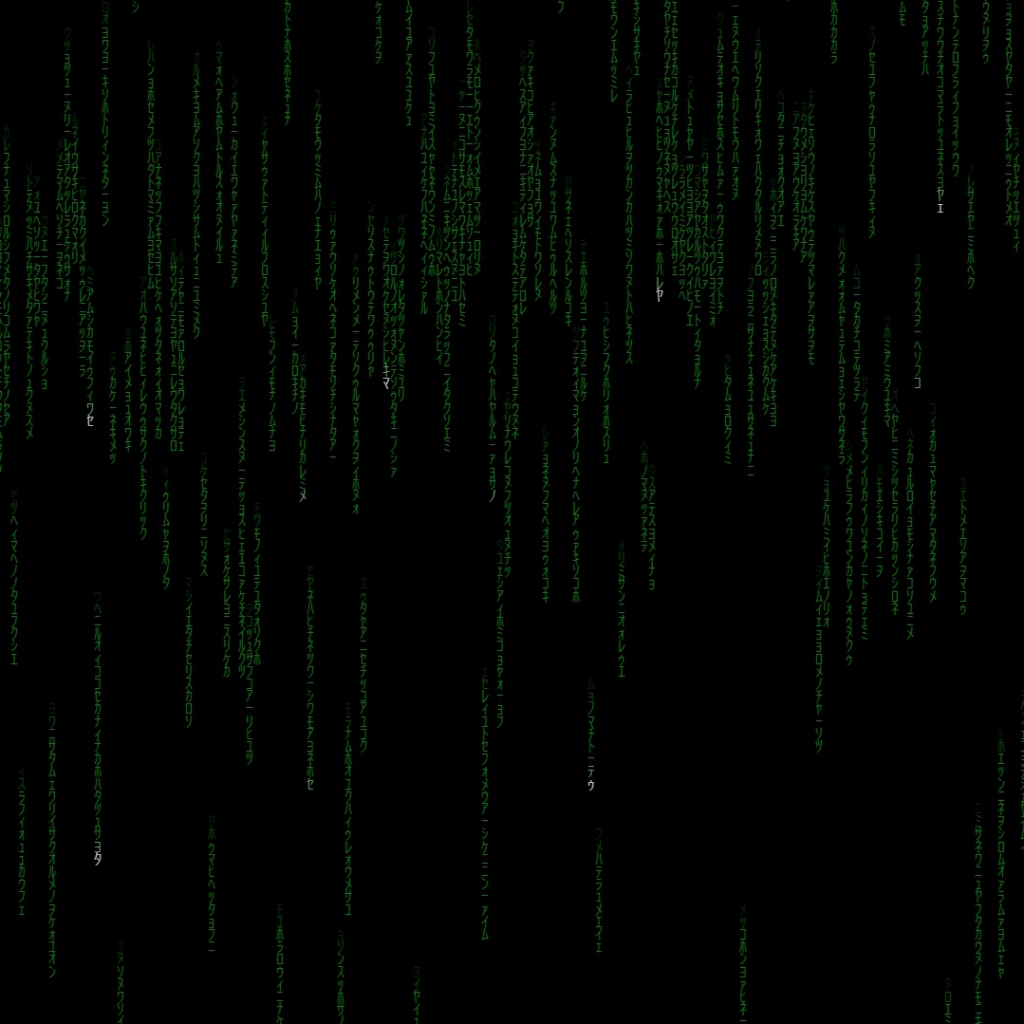
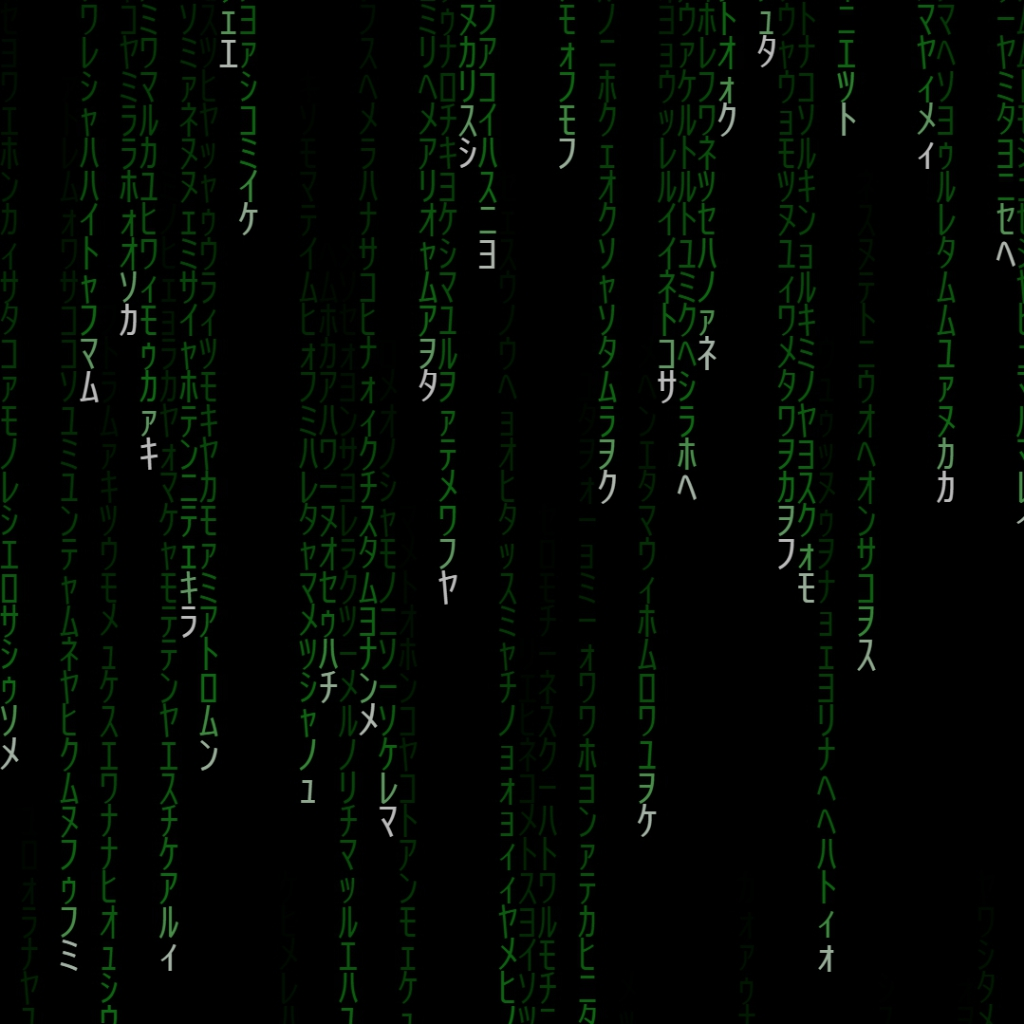
Improve drawing smoothness and speed

diff --git a/main.js b/main.js
@@ -1,5 +1,8 @@
 var rain, canvas, ctx, characterPool, fontSize, minimumChars, maximumChars, speedMultiplier, baseColor, baseColorRgb;
-var interpolatedColors, colorWay, slice, spacing, sliceCount, interval, verticalSpacing, schemeColor;
+var interpolatedColorsBottom, interpolatedColorsTop, colorWay, slice, spacing, sliceCount, interval, verticalSpacing;
+var schemeColor;
+
+var diffusion = 16;
 
 window.wallpaperPropertyListener = {
     applyUserProperties: function(properties) {
@@ -26,16 +29,16 @@ window.wallpaperPropertyListener = {
 			schemeColor = `rgb(${properties.schemecolor.value.split(' ').map(x => Math.round(255 * x)).join(', ')})`;
 		}
 		if (properties.highlightcolor) {
-			highlightColor = rgbToHex(...properties.highlightcolor.value.split(' ').map(x => Math.round(255 * x)));
+			highlightColor = `rgb(${properties.highlightcolor.value.split(' ').map(x => Math.round(255 * x)).join(', ')})`;
 		}
 
-		interpolatedColors = interpolateColors(schemeColor, `rgb(${baseColorRgb.r}, ${baseColorRgb.g}, ${baseColorRgb.b})`, maximumChars - 4);
-		interpolatedColors.shift();
+		interpolatedColorsBottom = interpolateColors(schemeColor, `rgb(${baseColorRgb.r}, ${baseColorRgb.g}, ${baseColorRgb.b})`, (maximumChars - 4) * 2);
+		interpolatedColorsBottom.shift();
+		interpolatedColorsBottom.pop();
+		interpolatedColorsTop = interpolateColors(highlightColor, `rgb(${baseColorRgb.r}, ${baseColorRgb.g}, ${baseColorRgb.b})`, diffusion + 1);
 		colorWay = [
-			...interpolatedColors.map(x => rgbToHex(...x)),
-			baseColor,
-			getMiddle(baseColorRgb, hexToRgb(highlightColor)),
-			highlightColor
+			...interpolatedColorsBottom.map(x => rgbToHex(...x)),
+			...interpolatedColorsTop.reverse().map(x => rgbToHex(...x))
 		];
 		init();
     }
@@ -58,14 +61,17 @@ function init() {
 			targetDelay: 0,
 			speed: 0,
 			cooldown: 0,
-			lastRandomChange: -1,
+			lastRandomChange: {
+				index: 0,
+				state: 0
+			},
 			chars: []
 		};
 	}
 
 	window.addEventListener('resize', recalcSize, false);
 
-	interval ??= setInterval(draw_rain, 50);
+	interval ??= setInterval(draw_rain, 10);
 }
 
 function recalcSize() {
@@ -93,9 +99,9 @@ function draw_rain() {
 			const rainLength = randInRange(minimumChars, maximumChars);
 			// set y position of slice to the top
 			rainSlice.posY = -(rainLength * verticalSpacing);
-			rainSlice.speed = randInRange(1, randInRange(10, 13));
+			rainSlice.speed = randInRange(1, randInRange(verticalSpacing * 0.8, verticalSpacing));
 			rainSlice.delay = randInRange(1, rainSlice.speed);
-			rainSlice.targetDelay = randInRange(rainSlice.speed, rainSlice.speed * randInRange(5, 9));
+			rainSlice.targetDelay = randInRange(rainSlice.speed * 2, rainSlice.speed * randInRange(10, 14));
 			rainSlice.cooldown = 0;
 			rainSlice.chars = [];
 			
@@ -108,18 +114,23 @@ function draw_rain() {
 		// rain movement check
 		if (rainSlice.delay <= rainSlice.targetDelay) {
 			// randomly change a character for the matrix feel
-			if (randInRange(1,1e5) == 25) {
-				rainSlice.lastRandomChange = randInRange(0, rainSlice.chars.length - 1);
-				rainSlice.chars[rainSlice.lastRandomChange] = characterPool[randInRange(0, characterPool.length - 1)];
+			if (randInRange(1, 2000) == 25) {
+				rainSlice.lastRandomChange.index = randInRange(Math.floor(rainSlice.chars.length / 3), rainSlice.chars.length - 1);
+				rainSlice.lastRandomChange.state = 0;
+				rainSlice.chars[rainSlice.lastRandomChange.index] = characterPool[randInRange(0, characterPool.length - 1)];
 			}
 
 			rainSlice.delay += rainSlice.speed * speedMultiplier;
-			if (rainSlice.cooldown < 4) rainSlice.cooldown++;
+			if (rainSlice.cooldown < diffusion * 2) rainSlice.cooldown++;
 		}
 		else {
 			// add new chars if exists
 			rainSlice.chars.shift();
 			rainSlice.chars.push(characterPool[randInRange(0, characterPool.length - 1)]);
+
+			if (rainSlice.lastRandomChange.index > 1) {
+				rainSlice.lastRandomChange.index--;
+			}
 
 			rainSlice.posY += verticalSpacing;
 			rainSlice.delay = 0;
@@ -131,21 +142,31 @@ function draw_rain() {
 	
 		// draw text
 		for (let i = 0; i < rainSlice.chars.length; i++) {
-			if (i === rainSlice.lastRandomChange || i === rainSlice.chars.length - 1) {
+			if (i === rainSlice.lastRandomChange.index && i > 1) {
+				ctx.fillStyle = getColor(colorWay.length - 1 - Math.floor(rainSlice.lastRandomChange.state / 2));
+			}
+			else if (i === rainSlice.chars.length - 1) {
 				ctx.fillStyle = getColor(colorWay.length - 1 - Math.floor(rainSlice.cooldown / 2));
 			}
 			else if (i === rainSlice.chars.length - 2) {
-				ctx.fillStyle = getColor(colorWay.length - 2 - Math.floor(rainSlice.cooldown / 2));
+				ctx.fillStyle = getColor(colorWay.length - 1 - (diffusion / 2) - Math.floor(rainSlice.cooldown / 2));
 			}
 			else if (i === colorWay.length - 3 || i == colorWay.length - 4) {
-				ctx.fillStyle = getColor(colorWay.length - 3);
+				ctx.fillStyle = baseColor;
 			}
 			else {
-				ctx.fillStyle = getColor(Math.floor(scale(i, 0, rainSlice.chars.length - 1, 0, colorWay.length - 1)));
+				ctx.fillStyle = getColor(Math.floor(scale(i, 0, rainSlice.chars.length - 1, 0, colorWay.length - 1 - diffusion)));
 			}
 			ctx.fillText(rainSlice.chars[i], spacing + rainSlice.posX, rainSlice.posY + i * verticalSpacing, slice);
 		}
-		rainSlice.lastRandomChange = -1;
+		if (rainSlice.lastRandomChange.index > 1) {
+			if (rainSlice.lastRandomChange.state < rainSlice.chars.length - rainSlice.lastRandomChange.index) {
+				rainSlice.lastRandomChange.state++;
+			}
+			else {
+				rainSlice.lastRandomChange.index = 0;
+			}
+		}
 	};
 }
 
